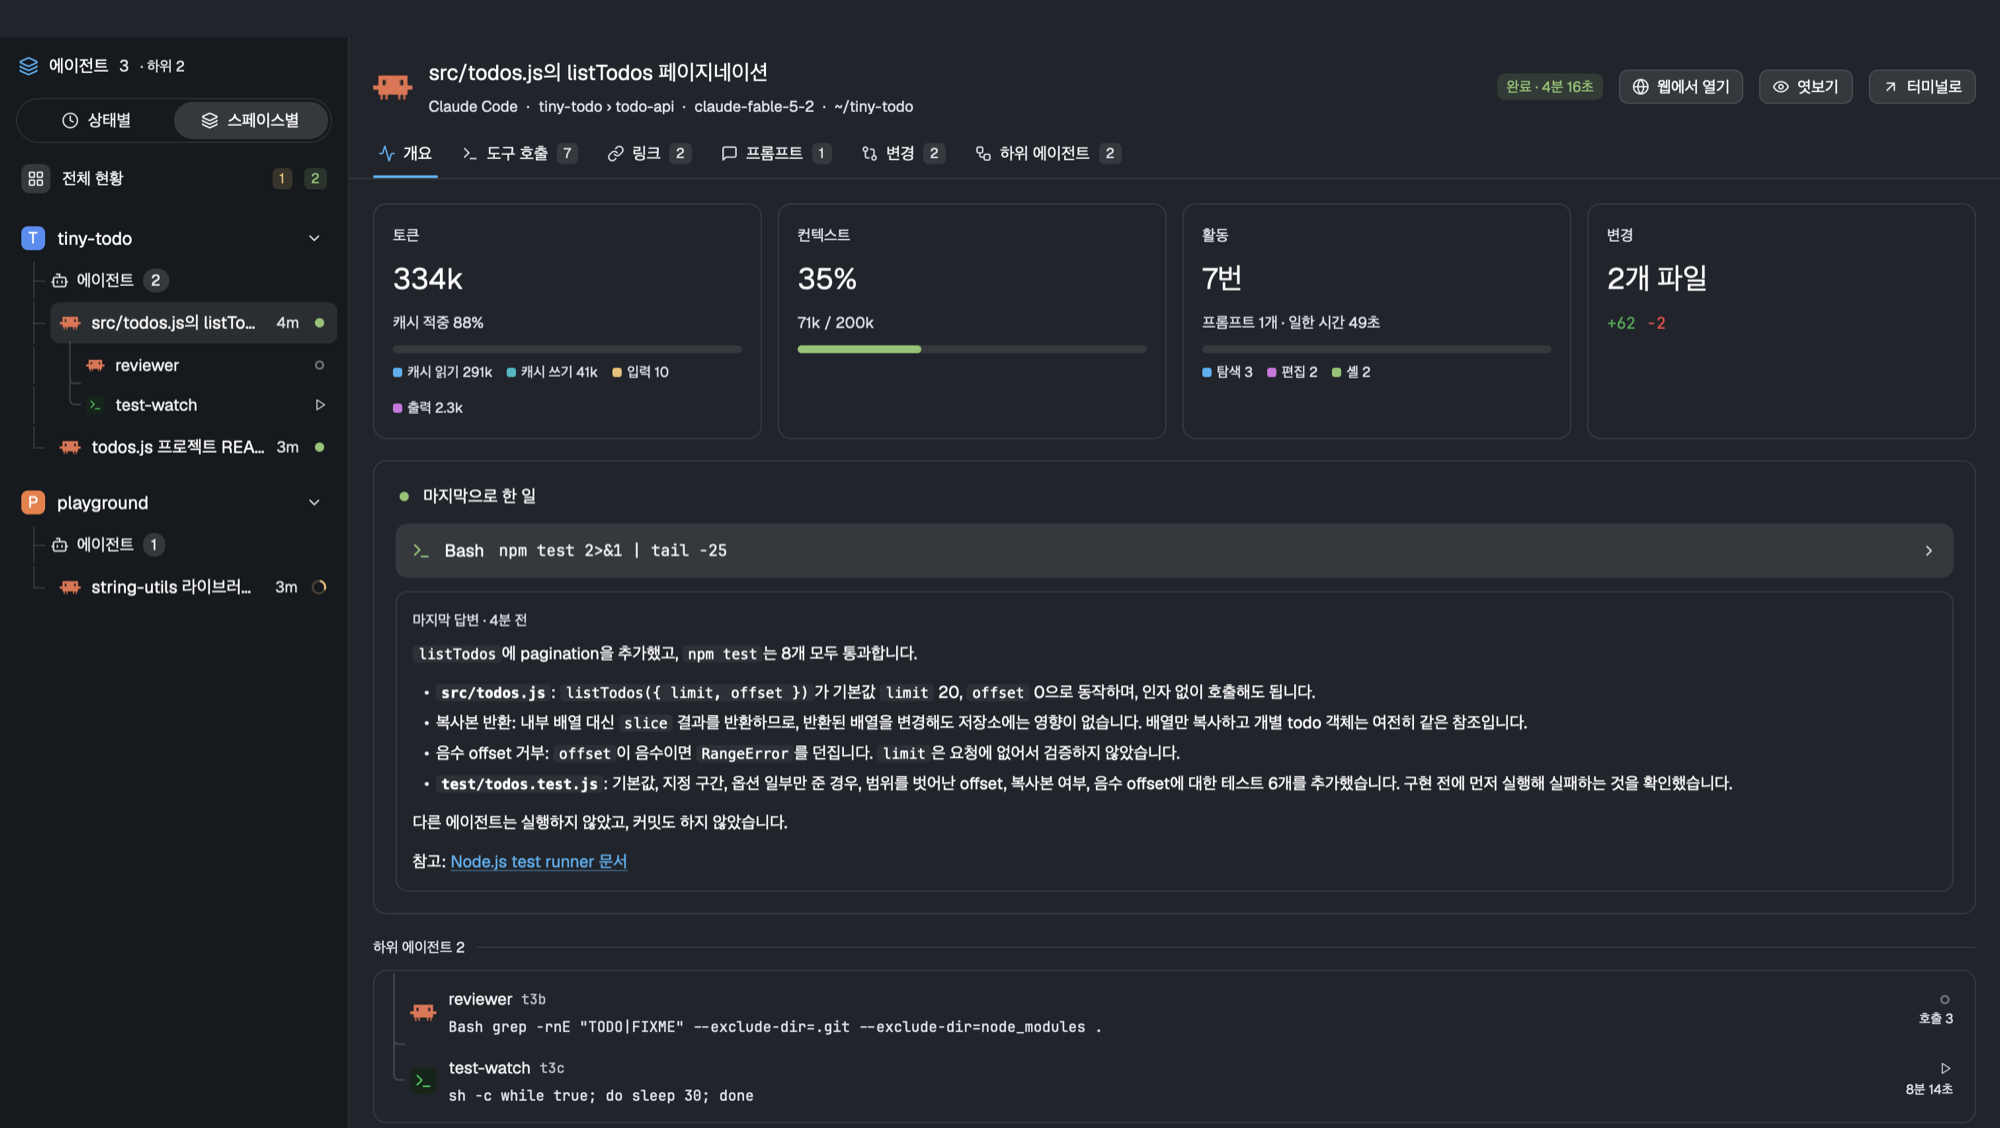
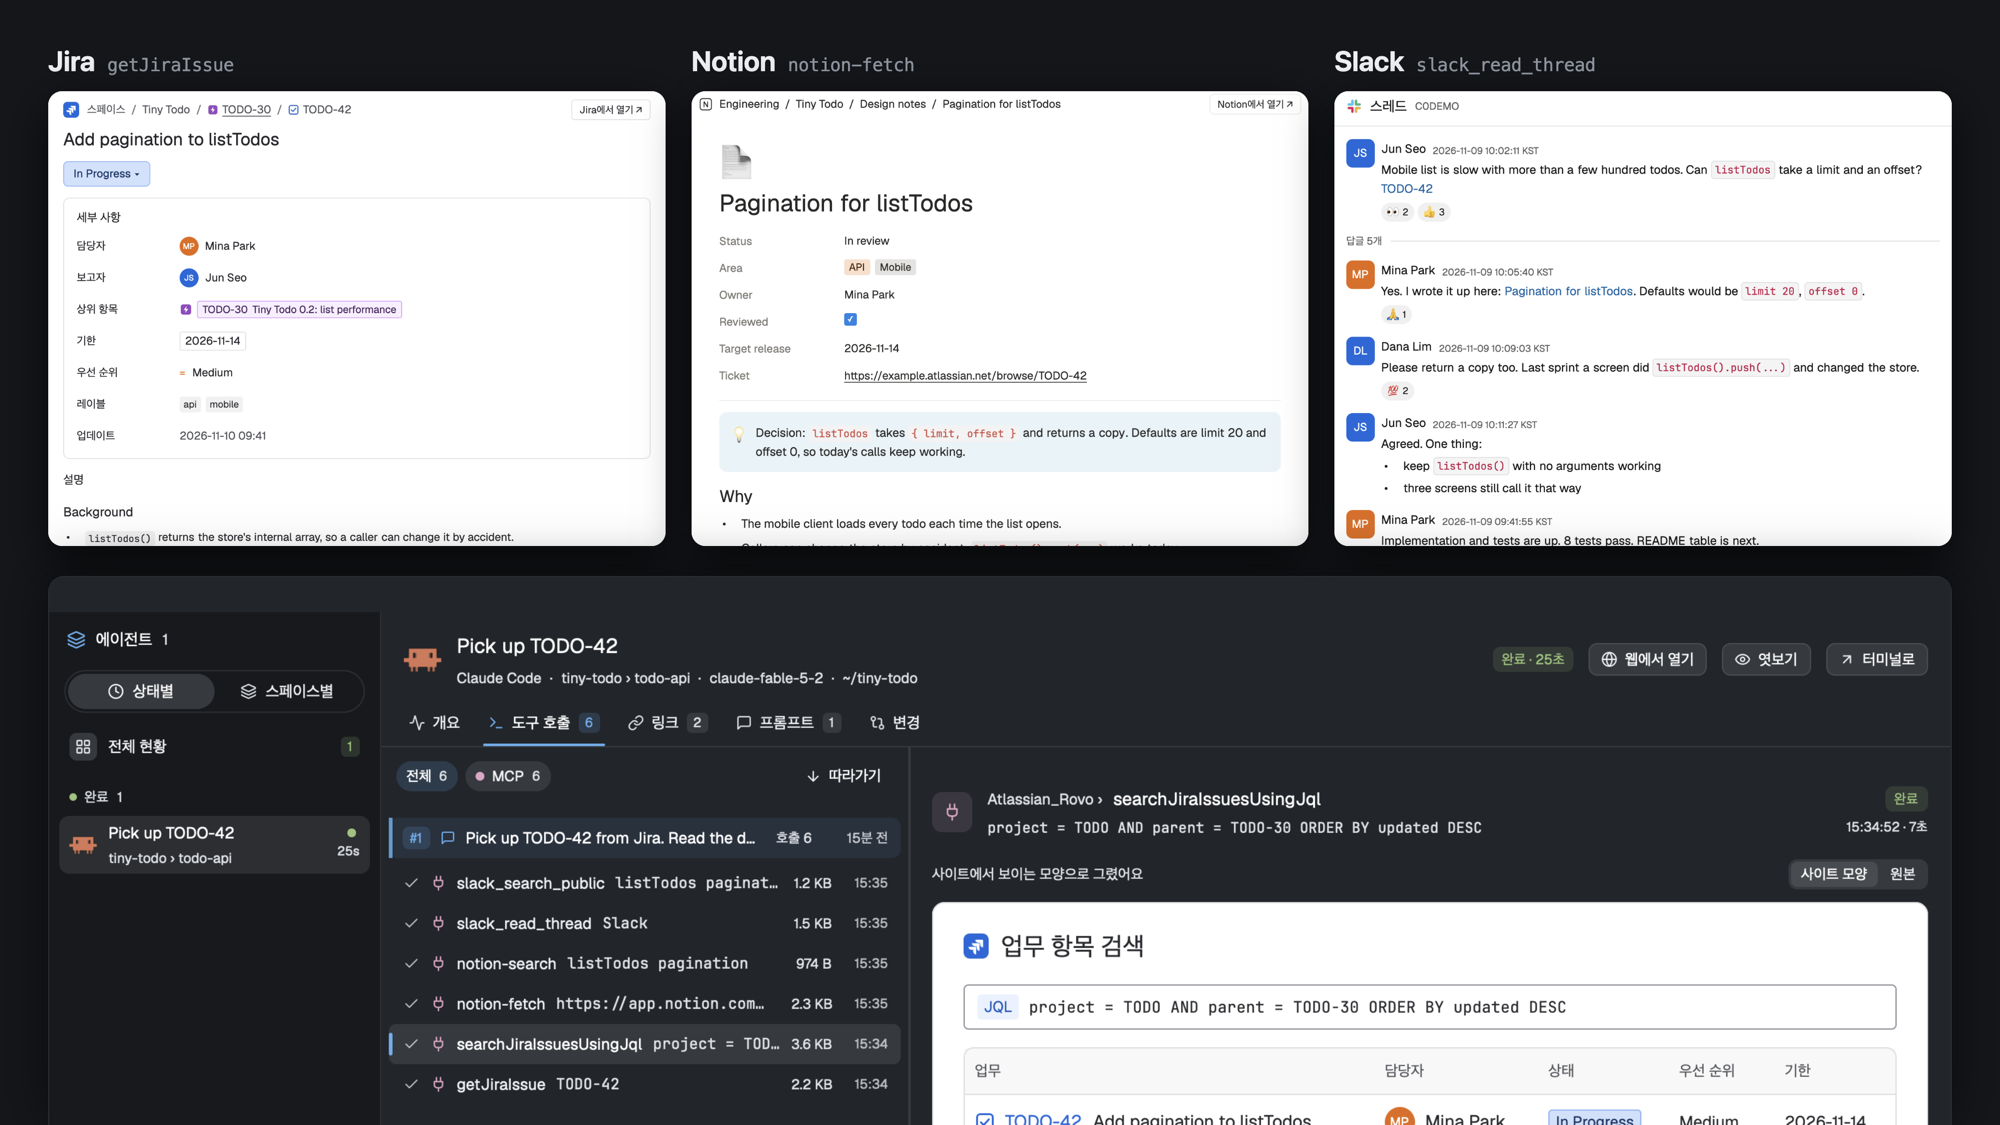
docs: lead with the Jira, Notion and Slack MCP views
New preview and screenshots of the site-like MCP views, taken with a made-up
sample project.

diff --git a/README.md b/README.md
@@ -1,14 +1,36 @@
 # Agent Dash for the Herdr app
 
 A control room for the coding agents running in Herdr. Press `cmd+shift+a`, pick an agent,
-and read what it did: its tool calls drawn per tool, the links in the conversation, your
-prompts, the files it changed, and the sub-agents it started.
+and read what it did. Every tool call gets a view made for that tool, and **Jira, Notion
+and Slack MCP calls are drawn the way those sites look**: an issue page, a Notion page, a
+Slack thread, instead of a wall of JSON.
 
 ![Agent Dash](preview.png)
 
 It reads Claude Code and Codex transcripts on this computer. The interface text is Korean.
 
-## What it shows
+## MCP calls, drawn like the site
+
+When an agent calls an MCP tool, the result is usually JSON or a long text blob. Agent Dash
+parses it and draws it in the product's own light theme. "원본" switches back to the raw
+input and output, and a button opens the real page.
+
+| | |
+| --- | --- |
+| ![Jira issue](images/jira.png) | ![Jira search](images/jira-list.png) |
+| ![Notion page](images/notion.png) | ![Slack thread](images/slack.png) |
+
+| Product | Calls with a view | What it draws |
+| --- | --- | --- |
+| Jira | `getJiraIssue`, `searchJiraIssuesUsingJql`, `createJiraIssue`, `editJiraIssue`, `transitionJiraIssue`, `addCommentToJiraIssue`, `getTransitionsForJiraIssue` | Breadcrumb, title, status lozenge, the details panel (assignee, reporter, parent, due date, priority, labels), the description and comments as rich text; a work-item table for a JQL search |
+| Notion | `notion-fetch`, `notion-search`, `notion-query-data-sources`, `notion-update-page`, `notion-create-pages` | A page with its breadcrumb, icon, properties and blocks (callouts, tables, code, to-dos, quotes); search results; database rows as a table; for writes, what was sent |
+| Slack | `slack_read_thread`, `slack_read_channel`, `slack_search_public`, `slack_search_public_and_private`, `slack_send_message` | A thread or channel with authors, times, mentions, links, code and reactions; search results as cards |
+
+The MCP servers send no profile pictures, so people are drawn as initials. Other MCP tools
+get their arguments as a table and the result as a JSON tree; MongoDB tools get a
+Compass-like view. The data in these screenshots is a made-up sample project.
+
+## The lenses
 
 | Lens | What you get |
 | --- | --- |
@@ -21,8 +43,9 @@ It reads Claude Code and Codex transcripts on this computer. The interface text 
 
 | | |
 | --- | --- |
-| ![Tool calls](images/calls.png) | ![Sub-agents](images/subs.png) |
-| ![Changes](images/changes.png) | ![Links](images/links.png) |
+| ![Overview](images/overview.png) | ![Tool calls](images/calls.png) |
+| ![Sub-agents](images/subs.png) | ![Changes](images/changes.png) |
+| ![Links](images/links.png) | ![Prompts](images/prompts.png) |
 
 The left rail lists agents by status or by space. A button opens the same view in the
 browser.

diff --git a/RECIPE.md b/RECIPE.md
@@ -6,6 +6,8 @@ them). The rest is one agent's history through six lenses: overview, tool calls,
 prompts, changes and sub-agents. Every tool call has a view made for that tool. The data
 comes from the agents' own transcripts on disk, read incrementally while they work. A button
 opens the same view as a web page served from this computer. The interface text is Korean.
+What sets it apart: Jira, Notion and Slack MCP calls are drawn like those sites (the three
+sheets at the top of the picture), not as JSON.
 
 ![Agent Dash](preview.png)
 
